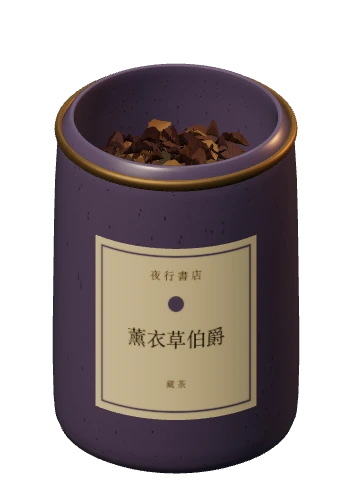
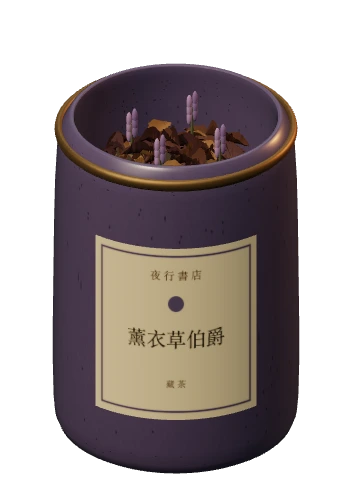
Add botanical details to tea leaf assets

diff --git a/video/src/tea-set.js b/video/src/tea-set.js
@@ -647,6 +647,111 @@ export function createTeaSet(container, W = 1280, H = 720) {
     leaf.rotation.x = (leafNoise(i + 231) - 0.5) * 0.9;
     dryPotLeaves.push(leaf);
   }
+  const teaAccentGroups = [];
+  const petalGeometry = new THREE.SphereGeometry(1, 10, 7);
+  const budGeometry = new THREE.SphereGeometry(1, 10, 8);
+  const botanicalMaterials = {
+    stem: material("#5e6847", 0, 0.95),
+    lavender: material("#8b739c", 0, 0.9),
+    lavenderLight: material("#aa8bb1", 0, 0.9),
+    petal: material("#f2ead5", 0, 0.9),
+    osmanthus: material("#e4bd68", 0, 0.9),
+    center: material("#e5c775", 0, 0.88),
+    chamomile: material("#d5a838", 0, 0.88),
+  };
+  function addBotanical(type, parent, position, size = 1) {
+    const group = new THREE.Group();
+    group.position.set(...position);
+    group.visible = false;
+    parent.add(group);
+    teaAccentGroups.push({ type, group });
+    if (type === "lavender") {
+      const stem = new THREE.Mesh(
+        new THREE.CylinderGeometry(0.003, 0.005, 0.075 * size, 5),
+        botanicalMaterials.stem,
+      );
+      stem.position.y = 0.035 * size;
+      group.add(stem);
+      for (let i = 0; i < 6; i++) {
+        const bud = new THREE.Mesh(
+          budGeometry,
+          i % 2
+            ? botanicalMaterials.lavender
+            : botanicalMaterials.lavenderLight,
+        );
+        bud.scale.set(0.009 * size, 0.018 * size, 0.009 * size);
+        bud.position.set(
+          (i % 2 ? 1 : -1) * 0.009 * size,
+          (0.045 + i * 0.009) * size,
+          0,
+        );
+        group.add(bud);
+      }
+      return;
+    }
+    const chamomile = type === "chamomile";
+    const count = chamomile ? 9 : type === "jasmine" ? 6 : 5;
+    for (let i = 0; i < count; i++) {
+      const angle = (i / count) * Math.PI * 2;
+      const petal = new THREE.Mesh(
+        petalGeometry,
+        type === "osmanthus"
+          ? botanicalMaterials.osmanthus
+          : botanicalMaterials.petal,
+      );
+      const radius = (chamomile ? 0.022 : 0.018) * size;
+      petal.scale.set(0.014 * size, 0.006 * size, 0.009 * size);
+      petal.position.set(
+        Math.cos(angle) * radius,
+        0.003 * size,
+        Math.sin(angle) * radius,
+      );
+      group.add(petal);
+    }
+    const center = new THREE.Mesh(
+      budGeometry,
+      chamomile ? botanicalMaterials.chamomile : botanicalMaterials.center,
+    );
+    center.scale.set(
+      (chamomile ? 0.012 : 0.008) * size,
+      0.007 * size,
+      (chamomile ? 0.012 : 0.008) * size,
+    );
+    center.position.y = 0.008 * size;
+    group.add(center);
+  }
+  for (const type of ["osmanthus", "jasmine", "chamomile", "lavender"]) {
+    const potPoints = Array.from({ length: 5 }, (_, i) => {
+      const angle = (i / 5) * Math.PI * 2 + 0.4;
+      return [
+        Math.cos(angle) * 0.2,
+        0.775 + (i % 2) * 0.008,
+        Math.sin(angle) * 0.2,
+      ];
+    });
+    const jarPoints = Array.from({ length: 4 }, (_, i) => {
+      const angle = (i / 4) * Math.PI * 2 + 0.35;
+      return [
+        Math.cos(angle) * 0.14,
+        0.595 + (i % 2) * 0.008,
+        Math.sin(angle) * 0.14,
+      ];
+    });
+    const spoonPoints = [
+      [-0.035, 0.055, -0.05],
+      [0.03, 0.06, 0.025],
+    ];
+    for (const point of potPoints) addBotanical(type, pot, point, 1.05);
+    for (const point of jarPoints) addBotanical(type, jar, point, 0.95);
+    for (const point of spoonPoints)
+      addBotanical(type, spoonLeaves, point, 0.8);
+  }
+  function setTeaAppearance(type) {
+    setTeaType(type);
+    teaAccentGroups.forEach(({ type: accentType, group }) => {
+      group.visible = accentType === type;
+    });
+  }
   const streamMat = new THREE.MeshPhysicalMaterial({
     color: "#d7e5e2",
     transparent: true,
@@ -1040,7 +1145,7 @@ export function createTeaSet(container, W = 1280, H = 720) {
       teaType = "osmanthus",
     } = {},
   ) {
-    setTeaType(teaType);
+    setTeaAppearance(teaType);
     setFrame("complete", 0);
     const filled = state === "full" || state === "water";
     const objects = { jar, jarLid, kettle, pot, potLid: lid, cup, spoon };

diff --git a/docs/TEA_PROPS.md b/docs/TEA_PROPS.md
@@ -9,7 +9,7 @@
 - 銅水壺：低矮圓腹、槌目凹凸、獨立壺蓋、胡桃木握柄與蓋鈕、金屬提梁和接點；鵝頸壺嘴逐漸收細，包含壺口內孔。茶匙仍有凹入匙面和圓滑柄，空匙與有茶葉分開渲染。
 - 茶湯：以半透明、非金屬液面、中心深淺、邊緣彎月面和少量細泡表現深度；水流加入透光材質，互動水線增加細高光。`teaLiquorColors` 與茶罐辨識色分開，薰衣草伯爵仍呈紅茶色。這是美術近似，不是即時流體或光譜吸收模擬。
 - 光線改為單一寬柔光、側面反光條與頂光的程序式攝影棚環境，減少多個強光斑造成的塑膠感。
-- 茶葉使用雙面薄片網格：尖端、不對稱邊緣、破口、摺痕與分岔葉脈。八種茶分別使用不同的葉色、長寬比例及散葉尺度；罐內、茶匙、未注水的壺與注水後的壺都依茶種預渲染。不同茶方目前仍共用葉片基礎網格，尚未加入洋甘菊花頭、桂花或薰衣草花苞等專屬植物模型。
+- 茶葉使用雙面薄片網格：尖端、不對稱邊緣、破口、摺痕與分岔葉脈。八種茶分別使用不同的葉色、長寬比例及散葉尺度；桂花烏龍、茉莉綠茶、洋甘菊與薰衣草伯爵另有花材模型。罐內、茶匙、未注水的壺與注水後的壺都依茶種預渲染。葉片基礎網格共用，花材以美術近似呈現，並非植物學模型。
 - 60 個 WebP 狀態涵蓋 16 個茶罐開／關、16 個不同茶色的壺／杯、16 個茶種專屬乾葉壺與滿匙、6 個基本器具，以及四個清水／獨立液面狀態。主要操作器物全部透明背景，比例和位置由 manifest 提供。
 
 素材由原生程式模型製作，沒有外部照片、AI 生圖或下載的模型。材質細紋使用固定亂數種子；同一模型同時用於 Remotion 影片。
